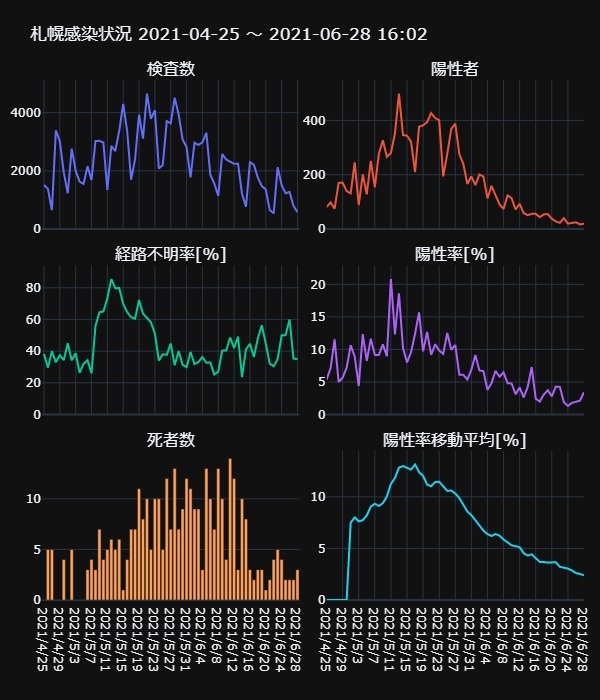
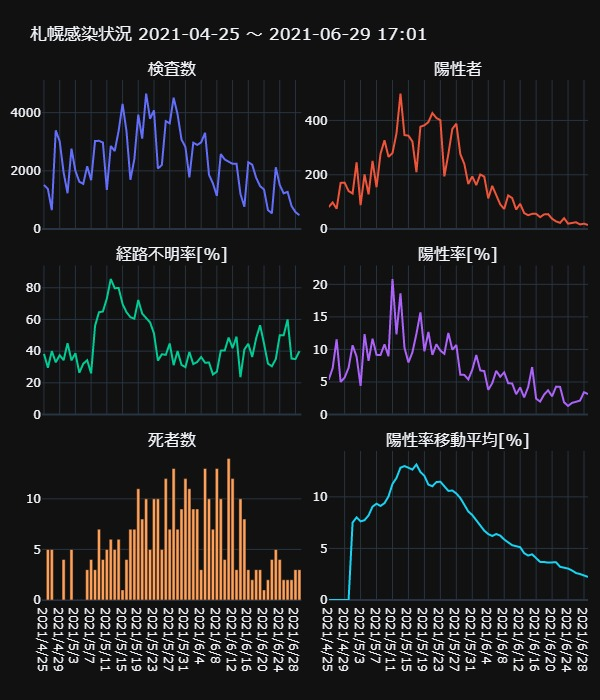
Updated with latest data.

diff --git a/docs/_includes/sapporo.html b/docs/_includes/sapporo.html
@@ -1,1 +1,1 @@
-<div>                            <div id="e60d2261-aacb-4499-9988-d8042fc4458e" class="plotly-graph-div" style="height:700px; width:600px;"></div>            <script type="text/javascript">                                    window.PLOTLYENV=window.PLOTLYENV || {};                                    if (document.getElementById("e60d2261-aacb-4499-9988-d8042fc4458e")) {                    Plotly.newPlot(                        "e60d2261-aacb-4499-9988-d8042fc4458e",                        [{"name": "\u691c\u67fb\u6570", "type": "scatter", "x": ["2021/4/25", "2021/4/26", "2021/4/27", "2021/4/28", "2021/4/29", "2021/4/30", "2021/5/1", "2021/5/2", "2021/5/3", "2021/5/4", "2021/5/5", "2021/5/6", "2021/5/7", "2021/5/8", "2021/5/9", "2021/5/10", "2021/5/11", "2021/5/12", "2021/5/13", "2021/5/14", "2021/5/15", "2021/5/16", "2021/5/17", "2021/5/18", "2021/5/19", "2021/5/20", "2021/5/21", "2021/5/22", "2021/5/23", "2021/5/24", "2021/5/25", "2021/5/26", "2021/5/27", "2021/5/28", "2021/5/29", "2021/5/30", "2021/5/31", "2021/6/1", "2021/6/2", "2021/6/3", "2021/6/4", "2021/6/5", "2021/6/6", "2021/6/7", "2021/6/8", "2021/6/9", "2021/6/10", "2021/6/11", "2021/6/12", "2021/6/13", "2021/6/14", "2021/6/15", "2021/6/16", "2021/6/17", "2021/6/18", "2021/6/19", "2021/6/20", "2021/6/21", "2021/6/22", "2021/6/23", "2021/6/24", "2021/6/25", "2021/6/26", "2021/6/27", "2021/6/28"], "xaxis": "x", "y": [1517, 1377, 649, 3391, 3018, 1946, 1231, 2764, 2001, 1626, 1553, 2157, 1680, 3028, 3031, 2972, 1345, 2856, 2680, 3372, 4302, 3365, 1694, 2402, 3933, 3105, 4656, 3789, 4080, 2080, 2201, 3708, 3632, 4511, 3943, 3079, 2818, 1773, 2967, 2891, 2978, 3307, 1863, 1567, 1142, 2577, 2391, 2307, 2240, 2244, 1208, 768, 2295, 2212, 1763, 1476, 1360, 653, 542, 2124, 1513, 1229, 1278, 793, 583], "yaxis": "y"}, {"name": "\u967d\u6027\u8005", "type": "scatter", "x": ["2021/4/25", "2021/4/26", "2021/4/27", "2021/4/28", "2021/4/29", "2021/4/30", "2021/5/1", "2021/5/2", "2021/5/3", "2021/5/4", "2021/5/5", "2021/5/6", "2021/5/7", "2021/5/8", "2021/5/9", "2021/5/10", "2021/5/11", "2021/5/12", "2021/5/13", "2021/5/14", "2021/5/15", "2021/5/16", "2021/5/17", "2021/5/18", "2021/5/19", "2021/5/20", "2021/5/21", "2021/5/22", "2021/5/23", "2021/5/24", "2021/5/25", "2021/5/26", "2021/5/27", "2021/5/28", "2021/5/29", "2021/5/30", "2021/5/31", "2021/6/1", "2021/6/2", "2021/6/3", "2021/6/4", "2021/6/5", "2021/6/6", "2021/6/7", "2021/6/8", "2021/6/9", "2021/6/10", "2021/6/11", "2021/6/12", "2021/6/13", "2021/6/14", "2021/6/15", "2021/6/16", "2021/6/17", "2021/6/18", "2021/6/19", "2021/6/20", "2021/6/21", "2021/6/22", "2021/6/23", "2021/6/24", "2021/6/25", "2021/6/26", "2021/6/27", "2021/6/28"], "xaxis": "x2", "y": [81, 98, 75, 170, 171, 140, 131, 246, 88, 201, 128, 251, 154, 277, 327, 266, 280, 352, 499, 346, 344, 322, 210, 377, 382, 394, 427, 409, 401, 194, 276, 369, 388, 276, 240, 166, 194, 162, 201, 193, 113, 159, 125, 91, 74, 124, 114, 72, 93, 59, 51, 56, 56, 44, 54, 55, 38, 28, 23, 40, 20, 22, 25, 17, 20], "yaxis": "y2"}, {"name": "\u7d4c\u8def\u4e0d\u660e\u7387[%]", "type": "scatter", "x": ["2021/4/25", "2021/4/26", "2021/4/27", "2021/4/28", "2021/4/29", "2021/4/30", "2021/5/1", "2021/5/2", "2021/5/3", "2021/5/4", "2021/5/5", "2021/5/6", "2021/5/7", "2021/5/8", "2021/5/9", "2021/5/10", "2021/5/11", "2021/5/12", "2021/5/13", "2021/5/14", "2021/5/15", "2021/5/16", "2021/5/17", "2021/5/18", "2021/5/19", "2021/5/20", "2021/5/21", "2021/5/22", "2021/5/23", "2021/5/24", "2021/5/25", "2021/5/26", "2021/5/27", "2021/5/28", "2021/5/29", "2021/5/30", "2021/5/31", "2021/6/1", "2021/6/2", "2021/6/3", "2021/6/4", "2021/6/5", "2021/6/6", "2021/6/7", "2021/6/8", "2021/6/9", "2021/6/10", "2021/6/11", "2021/6/12", "2021/6/13", "2021/6/14", "2021/6/15", "2021/6/16", "2021/6/17", "2021/6/18", "2021/6/19", "2021/6/20", "2021/6/21", "2021/6/22", "2021/6/23", "2021/6/24", "2021/6/25", "2021/6/26", "2021/6/27", "2021/6/28"], "xaxis": "x3", "y": [38.2716049382716, 29.591836734693878, 40.0, 32.94117647058823, 37.42690058479532, 34.285714285714285, 45.038167938931295, 34.146341463414636, 38.63636363636363, 26.368159203980102, 32.03125, 34.26294820717131, 25.97402597402597, 55.95667870036101, 64.52599388379205, 65.0375939849624, 73.21428571428571, 85.51136363636364, 79.75951903807615, 79.76878612716763, 69.76744186046511, 64.59627329192547, 61.42857142857143, 60.47745358090185, 72.25130890052355, 63.70558375634518, 60.88992974238876, 58.19070904645477, 51.12219451371571, 34.02061855670103, 38.04347826086957, 37.669376693766935, 44.84536082474227, 31.15942028985507, 40.0, 31.32530120481928, 29.896907216494846, 39.50617283950617, 31.8407960199005, 33.160621761658035, 36.283185840707965, 32.70440251572327, 32.800000000000004, 25.274725274725274, 27.027027027027028, 40.32258064516129, 40.35087719298245, 48.61111111111111, 41.935483870967744, 49.152542372881356, 23.52941176470588, 41.07142857142857, 44.642857142857146, 36.36363636363637, 48.148148148148145, 56.36363636363636, 44.73684210526316, 32.142857142857146, 30.434782608695656, 35.0, 50.0, 50.0, 60.0, 35.294117647058826, 35.0], "yaxis": "y3"}, {"name": "\u967d\u6027\u7387[%]", "type": "scatter", "x": ["2021/4/25", "2021/4/26", "2021/4/27", "2021/4/28", "2021/4/29", "2021/4/30", "2021/5/1", "2021/5/2", "2021/5/3", "2021/5/4", "2021/5/5", "2021/5/6", "2021/5/7", "2021/5/8", "2021/5/9", "2021/5/10", "2021/5/11", "2021/5/12", "2021/5/13", "2021/5/14", "2021/5/15", "2021/5/16", "2021/5/17", "2021/5/18", "2021/5/19", "2021/5/20", "2021/5/21", "2021/5/22", "2021/5/23", "2021/5/24", "2021/5/25", "2021/5/26", "2021/5/27", "2021/5/28", "2021/5/29", "2021/5/30", "2021/5/31", "2021/6/1", "2021/6/2", "2021/6/3", "2021/6/4", "2021/6/5", "2021/6/6", "2021/6/7", "2021/6/8", "2021/6/9", "2021/6/10", "2021/6/11", "2021/6/12", "2021/6/13", "2021/6/14", "2021/6/15", "2021/6/16", "2021/6/17", "2021/6/18", "2021/6/19", "2021/6/20", "2021/6/21", "2021/6/22", "2021/6/23", "2021/6/24", "2021/6/25", "2021/6/26", "2021/6/27", "2021/6/28"], "xaxis": "x4", "y": [5.339485827290705, 7.116920842411038, 11.556240369799692, 5.013270421704512, 5.666003976143141, 7.194244604316546, 10.641754670999187, 8.90014471780029, 4.397801099450275, 12.361623616236162, 8.24211204121056, 11.636532220676866, 9.166666666666666, 9.147952443857331, 10.788518640712635, 8.950201884253028, 20.817843866171003, 12.324929971988796, 18.619402985074625, 10.26097271648873, 7.996280799628081, 9.569093610698365, 12.396694214876034, 15.695253955037469, 9.712687515891178, 12.689210950080515, 9.170962199312713, 10.794404856162576, 9.82843137254902, 9.326923076923077, 12.539754656974104, 9.951456310679612, 10.682819383259911, 6.1183772999334956, 6.086735987826528, 5.391360831438779, 6.88431511710433, 9.137055837563452, 6.774519716885743, 6.675890695261155, 3.794492948287441, 4.807983066223163, 6.709608158883522, 5.8072750478621575, 6.47985989492119, 4.811796662786186, 4.767879548306149, 3.1209362808842656, 4.151785714285714, 2.6292335115864525, 4.2218543046357615, 7.291666666666667, 2.440087145969499, 1.9891500904159132, 3.0629608621667614, 3.7262872628726287, 2.794117647058824, 4.287901990811639, 4.243542435424354, 1.8832391713747645, 1.3218770654329148, 1.790073230268511, 1.9561815336463224, 2.1437578814627996, 3.430531732418525], "yaxis": "y4"}, {"name": "\u6b7b\u8005\u6570", "type": "bar", "x": ["2021/4/25", "2021/4/26", "2021/4/27", "2021/4/28", "2021/4/29", "2021/4/30", "2021/5/1", "2021/5/2", "2021/5/3", "2021/5/4", "2021/5/5", "2021/5/6", "2021/5/7", "2021/5/8", "2021/5/9", "2021/5/10", "2021/5/11", "2021/5/12", "2021/5/13", "2021/5/14", "2021/5/15", "2021/5/16", "2021/5/17", "2021/5/18", "2021/5/19", "2021/5/20", "2021/5/21", "2021/5/22", "2021/5/23", "2021/5/24", "2021/5/25", "2021/5/26", "2021/5/27", "2021/5/28", "2021/5/29", "2021/5/30", "2021/5/31", "2021/6/1", "2021/6/2", "2021/6/3", "2021/6/4", "2021/6/5", "2021/6/6", "2021/6/7", "2021/6/8", "2021/6/9", "2021/6/10", "2021/6/11", "2021/6/12", "2021/6/13", "2021/6/14", "2021/6/15", "2021/6/16", "2021/6/17", "2021/6/18", "2021/6/19", "2021/6/20", "2021/6/21", "2021/6/22", "2021/6/23", "2021/6/24", "2021/6/25", "2021/6/26", "2021/6/27", "2021/6/28"], "xaxis": "x5", "y": [0, 5, 5, 0, 0, 4, 0, 5, 0, 0, 0, 3, 4, 3, 7, 4, 5, 6, 5, 6, 1, 4, 7, 7, 11, 8, 10, 5, 10, 10, 5, 12, 7, 13, 7, 9, 12, 11, 9, 9, 3, 13, 10, 7, 13, 10, 4, 14, 12, 3, 10, 8, 3, 2, 3, 3, 1, 2, 4, 5, 4, 2, 2, 2, 3], "yaxis": "y5"}, {"name": "\u967d\u6027\u7387\u79fb\u52d5\u5e73\u5747[%]", "type": "scatter", "x": ["2021/4/25", "2021/4/26", "2021/4/27", "2021/4/28", "2021/4/29", "2021/4/30", "2021/5/1", "2021/5/2", "2021/5/3", "2021/5/4", "2021/5/5", "2021/5/6", "2021/5/7", "2021/5/8", "2021/5/9", "2021/5/10", "2021/5/11", "2021/5/12", "2021/5/13", "2021/5/14", "2021/5/15", "2021/5/16", "2021/5/17", "2021/5/18", "2021/5/19", "2021/5/20", "2021/5/21", "2021/5/22", "2021/5/23", "2021/5/24", "2021/5/25", "2021/5/26", "2021/5/27", "2021/5/28", "2021/5/29", "2021/5/30", "2021/5/31", "2021/6/1", "2021/6/2", "2021/6/3", "2021/6/4", "2021/6/5", "2021/6/6", "2021/6/7", "2021/6/8", "2021/6/9", "2021/6/10", "2021/6/11", "2021/6/12", "2021/6/13", "2021/6/14", "2021/6/15", "2021/6/16", "2021/6/17", "2021/6/18", "2021/6/19", "2021/6/20", "2021/6/21", "2021/6/22", "2021/6/23", "2021/6/24", "2021/6/25", "2021/6/26", "2021/6/27", "2021/6/28"], "xaxis": "x6", "y": [0.0, 0.0, 0.0, 0.0, 0.0, 0.0, 7.503988673237832, 8.012654229024914, 7.624208551459091, 7.739263300950015, 8.20052638945088, 9.053458995812841, 9.335233576148571, 9.12183325798545, 9.391600961258641, 10.041943930516178, 11.249975394792585, 11.833235099189475, 12.830788065532012, 12.987117501220878, 12.8225929806167, 12.648389404900376, 13.140745452132233, 12.408946893398872, 12.035769399670638, 11.188599108957195, 11.032883320789193, 11.432615328865548, 11.469663580558498, 11.03112484656522, 10.580339232556168, 10.614449060383087, 10.32782169369443, 9.891738136640255, 9.219214012592248, 8.585346792433644, 8.236402798173822, 7.750302966829444, 7.296454882001749, 6.724036498001926, 6.392053019195346, 6.209374030394867, 6.397695077172687, 6.24383221013809, 5.864232789760624, 5.583843782032115, 5.311270761038544, 5.215048379980947, 5.12130590113274, 4.53839523723316, 4.311906559629389, 4.4278789555930285, 4.0890633103335015, 3.6921019592063242, 3.683819756532395, 3.6230342634733828, 3.646589139969436, 3.6560245237088473, 3.220578204959945, 3.141028494303555, 3.045703776448841, 2.863862686177662, 2.6109904391453327, 2.5180819012030433, 2.395600435718313], "yaxis": "y6"}],                        {"annotations": [{"font": {"size": 16}, "showarrow": false, "text": "\u691c\u67fb\u6570", "x": 0.2375, "xanchor": "center", "xref": "paper", "y": 1.0, "yanchor": "bottom", "yref": "paper"}, {"font": {"size": 16}, "showarrow": false, "text": "\u967d\u6027\u8005", "x": 0.7625, "xanchor": "center", "xref": "paper", "y": 1.0, "yanchor": "bottom", "yref": "paper"}, {"font": {"size": 16}, "showarrow": false, "text": "\u7d4c\u8def\u4e0d\u660e\u7387[%]", "x": 0.2375, "xanchor": "center", "xref": "paper", "y": 0.6433333333333333, "yanchor": "bottom", "yref": "paper"}, {"font": {"size": 16}, "showarrow": false, "text": "\u967d\u6027\u7387[%]", "x": 0.7625, "xanchor": "center", "xref": "paper", "y": 0.6433333333333333, "yanchor": "bottom", "yref": "paper"}, {"font": {"size": 16}, "showarrow": false, "text": "\u6b7b\u8005\u6570", "x": 0.2375, "xanchor": "center", "xref": "paper", "y": 0.2866666666666667, "yanchor": "bottom", "yref": "paper"}, {"font": {"size": 16}, "showarrow": false, "text": "\u967d\u6027\u7387\u79fb\u52d5\u5e73\u5747[%]", "x": 0.7625, "xanchor": "center", "xref": "paper", "y": 0.2866666666666667, "yanchor": "bottom", "yref": "paper"}], "height": 700, "margin": {"b": 100, "l": 10, "r": 10, "t": 80}, "showlegend": false, "template": {"data": {"bar": [{"error_x": {"color": "#f2f5fa"}, "error_y": {"color": "#f2f5fa"}, "marker": {"line": {"color": "rgb(17,17,17)", "width": 0.5}}, "type": "bar"}], "barpolar": [{"marker": {"line": {"color": "rgb(17,17,17)", "width": 0.5}}, "type": "barpolar"}], "carpet": [{"aaxis": {"endlinecolor": "#A2B1C6", "gridcolor": "#506784", "linecolor": "#506784", "minorgridcolor": "#506784", "startlinecolor": "#A2B1C6"}, "baxis": {"endlinecolor": "#A2B1C6", "gridcolor": "#506784", "linecolor": "#506784", "minorgridcolor": "#506784", "startlinecolor": "#A2B1C6"}, "type": "carpet"}], "choropleth": [{"colorbar": {"outlinewidth": 0, "ticks": ""}, "type": "choropleth"}], "contour": [{"colorbar": {"outlinewidth": 0, "ticks": ""}, "colorscale": [[0.0, "#0d0887"], [0.1111111111111111, "#46039f"], [0.2222222222222222, "#7201a8"], [0.3333333333333333, "#9c179e"], [0.4444444444444444, "#bd3786"], [0.5555555555555556, "#d8576b"], [0.6666666666666666, "#ed7953"], [0.7777777777777778, "#fb9f3a"], [0.8888888888888888, "#fdca26"], [1.0, "#f0f921"]], "type": "contour"}], "contourcarpet": [{"colorbar": {"outlinewidth": 0, "ticks": ""}, "type": "contourcarpet"}], "heatmap": [{"colorbar": {"outlinewidth": 0, "ticks": ""}, "colorscale": [[0.0, "#0d0887"], [0.1111111111111111, "#46039f"], [0.2222222222222222, "#7201a8"], [0.3333333333333333, "#9c179e"], [0.4444444444444444, "#bd3786"], [0.5555555555555556, "#d8576b"], [0.6666666666666666, "#ed7953"], [0.7777777777777778, "#fb9f3a"], [0.8888888888888888, "#fdca26"], [1.0, "#f0f921"]], "type": "heatmap"}], "heatmapgl": [{"colorbar": {"outlinewidth": 0, "ticks": ""}, "colorscale": [[0.0, "#0d0887"], [0.1111111111111111, "#46039f"], [0.2222222222222222, "#7201a8"], [0.3333333333333333, "#9c179e"], [0.4444444444444444, "#bd3786"], [0.5555555555555556, "#d8576b"], [0.6666666666666666, "#ed7953"], [0.7777777777777778, "#fb9f3a"], [0.8888888888888888, "#fdca26"], [1.0, "#f0f921"]], "type": "heatmapgl"}], "histogram": [{"marker": {"colorbar": {"outlinewidth": 0, "ticks": ""}}, "type": "histogram"}], "histogram2d": [{"colorbar": {"outlinewidth": 0, "ticks": ""}, "colorscale": [[0.0, "#0d0887"], [0.1111111111111111, "#46039f"], [0.2222222222222222, "#7201a8"], [0.3333333333333333, "#9c179e"], [0.4444444444444444, "#bd3786"], [0.5555555555555556, "#d8576b"], [0.6666666666666666, "#ed7953"], [0.7777777777777778, "#fb9f3a"], [0.8888888888888888, "#fdca26"], [1.0, "#f0f921"]], "type": "histogram2d"}], "histogram2dcontour": [{"colorbar": {"outlinewidth": 0, "ticks": ""}, "colorscale": [[0.0, "#0d0887"], [0.1111111111111111, "#46039f"], [0.2222222222222222, "#7201a8"], [0.3333333333333333, "#9c179e"], [0.4444444444444444, "#bd3786"], [0.5555555555555556, "#d8576b"], [0.6666666666666666, "#ed7953"], [0.7777777777777778, "#fb9f3a"], [0.8888888888888888, "#fdca26"], [1.0, "#f0f921"]], "type": "histogram2dcontour"}], "mesh3d": [{"colorbar": {"outlinewidth": 0, "ticks": ""}, "type": "mesh3d"}], "parcoords": [{"line": {"colorbar": {"outlinewidth": 0, "ticks": ""}}, "type": "parcoords"}], "pie": [{"automargin": true, "type": "pie"}], "scatter": [{"marker": {"line": {"color": "#283442"}}, "type": "scatter"}], "scatter3d": [{"line": {"colorbar": {"outlinewidth": 0, "ticks": ""}}, "marker": {"colorbar": {"outlinewidth": 0, "ticks": ""}}, "type": "scatter3d"}], "scattercarpet": [{"marker": {"colorbar": {"outlinewidth": 0, "ticks": ""}}, "type": "scattercarpet"}], "scattergeo": [{"marker": {"colorbar": {"outlinewidth": 0, "ticks": ""}}, "type": "scattergeo"}], "scattergl": [{"marker": {"line": {"color": "#283442"}}, "type": "scattergl"}], "scattermapbox": [{"marker": {"colorbar": {"outlinewidth": 0, "ticks": ""}}, "type": "scattermapbox"}], "scatterpolar": [{"marker": {"colorbar": {"outlinewidth": 0, "ticks": ""}}, "type": "scatterpolar"}], "scatterpolargl": [{"marker": {"colorbar": {"outlinewidth": 0, "ticks": ""}}, "type": "scatterpolargl"}], "scatterternary": [{"marker": {"colorbar": {"outlinewidth": 0, "ticks": ""}}, "type": "scatterternary"}], "surface": [{"colorbar": {"outlinewidth": 0, "ticks": ""}, "colorscale": [[0.0, "#0d0887"], [0.1111111111111111, "#46039f"], [0.2222222222222222, "#7201a8"], [0.3333333333333333, "#9c179e"], [0.4444444444444444, "#bd3786"], [0.5555555555555556, "#d8576b"], [0.6666666666666666, "#ed7953"], [0.7777777777777778, "#fb9f3a"], [0.8888888888888888, "#fdca26"], [1.0, "#f0f921"]], "type": "surface"}], "table": [{"cells": {"fill": {"color": "#506784"}, "line": {"color": "rgb(17,17,17)"}}, "header": {"fill": {"color": "#2a3f5f"}, "line": {"color": "rgb(17,17,17)"}}, "type": "table"}]}, "layout": {"annotationdefaults": {"arrowcolor": "#f2f5fa", "arrowhead": 0, "arrowwidth": 1}, "autotypenumbers": "strict", "coloraxis": {"colorbar": {"outlinewidth": 0, "ticks": ""}}, "colorscale": {"diverging": [[0, "#8e0152"], [0.1, "#c51b7d"], [0.2, "#de77ae"], [0.3, "#f1b6da"], [0.4, "#fde0ef"], [0.5, "#f7f7f7"], [0.6, "#e6f5d0"], [0.7, "#b8e186"], [0.8, "#7fbc41"], [0.9, "#4d9221"], [1, "#276419"]], "sequential": [[0.0, "#0d0887"], [0.1111111111111111, "#46039f"], [0.2222222222222222, "#7201a8"], [0.3333333333333333, "#9c179e"], [0.4444444444444444, "#bd3786"], [0.5555555555555556, "#d8576b"], [0.6666666666666666, "#ed7953"], [0.7777777777777778, "#fb9f3a"], [0.8888888888888888, "#fdca26"], [1.0, "#f0f921"]], "sequentialminus": [[0.0, "#0d0887"], [0.1111111111111111, "#46039f"], [0.2222222222222222, "#7201a8"], [0.3333333333333333, "#9c179e"], [0.4444444444444444, "#bd3786"], [0.5555555555555556, "#d8576b"], [0.6666666666666666, "#ed7953"], [0.7777777777777778, "#fb9f3a"], [0.8888888888888888, "#fdca26"], [1.0, "#f0f921"]]}, "colorway": ["#636efa", "#EF553B", "#00cc96", "#ab63fa", "#FFA15A", "#19d3f3", "#FF6692", "#B6E880", "#FF97FF", "#FECB52"], "font": {"color": "#f2f5fa"}, "geo": {"bgcolor": "rgb(17,17,17)", "lakecolor": "rgb(17,17,17)", "landcolor": "rgb(17,17,17)", "showlakes": true, "showland": true, "subunitcolor": "#506784"}, "hoverlabel": {"align": "left"}, "hovermode": "closest", "mapbox": {"style": "dark"}, "paper_bgcolor": "rgb(17,17,17)", "plot_bgcolor": "rgb(17,17,17)", "polar": {"angularaxis": {"gridcolor": "#506784", "linecolor": "#506784", "ticks": ""}, "bgcolor": "rgb(17,17,17)", "radialaxis": {"gridcolor": "#506784", "linecolor": "#506784", "ticks": ""}}, "scene": {"xaxis": {"backgroundcolor": "rgb(17,17,17)", "gridcolor": "#506784", "gridwidth": 2, "linecolor": "#506784", "showbackground": true, "ticks": "", "zerolinecolor": "#C8D4E3"}, "yaxis": {"backgroundcolor": "rgb(17,17,17)", "gridcolor": "#506784", "gridwidth": 2, "linecolor": "#506784", "showbackground": true, "ticks": "", "zerolinecolor": "#C8D4E3"}, "zaxis": {"backgroundcolor": "rgb(17,17,17)", "gridcolor": "#506784", "gridwidth": 2, "linecolor": "#506784", "showbackground": true, "ticks": "", "zerolinecolor": "#C8D4E3"}}, "shapedefaults": {"line": {"color": "#f2f5fa"}}, "sliderdefaults": {"bgcolor": "#C8D4E3", "bordercolor": "rgb(17,17,17)", "borderwidth": 1, "tickwidth": 0}, "ternary": {"aaxis": {"gridcolor": "#506784", "linecolor": "#506784", "ticks": ""}, "baxis": {"gridcolor": "#506784", "linecolor": "#506784", "ticks": ""}, "bgcolor": "rgb(17,17,17)", "caxis": {"gridcolor": "#506784", "linecolor": "#506784", "ticks": ""}}, "title": {"x": 0.05}, "updatemenudefaults": {"bgcolor": "#506784", "borderwidth": 0}, "xaxis": {"automargin": true, "gridcolor": "#283442", "linecolor": "#506784", "ticks": "", "title": {"standoff": 15}, "zerolinecolor": "#283442", "zerolinewidth": 2}, "yaxis": {"automargin": true, "gridcolor": "#283442", "linecolor": "#506784", "ticks": "", "title": {"standoff": 15}, "zerolinecolor": "#283442", "zerolinewidth": 2}}}, "title": {"text": "\u672d\u5e4c\u611f\u67d3\u72b6\u6cc1 2021-04-25 \uff5e 2021-06-28 16:02"}, "width": 600, "xaxis": {"anchor": "y", "domain": [0.0, 0.475], "matches": "x5", "showticklabels": false}, "xaxis2": {"anchor": "y2", "domain": [0.525, 1.0], "matches": "x6", "showticklabels": false}, "xaxis3": {"anchor": "y3", "domain": [0.0, 0.475], "matches": "x5", "showticklabels": false}, "xaxis4": {"anchor": "y4", "domain": [0.525, 1.0], "matches": "x6", "showticklabels": false}, "xaxis5": {"anchor": "y5", "domain": [0.0, 0.475]}, "xaxis6": {"anchor": "y6", "domain": [0.525, 1.0]}, "yaxis": {"anchor": "x", "domain": [0.7133333333333334, 1.0], "range": [0, 5121.6]}, "yaxis2": {"anchor": "x2", "domain": [0.7133333333333334, 1.0], "range": [0, 548.9000000000001]}, "yaxis3": {"anchor": "x3", "domain": [0.3566666666666667, 0.6433333333333333], "range": [0, 94.06250000000001]}, "yaxis4": {"anchor": "x4", "domain": [0.3566666666666667, 0.6433333333333333], "range": [0, 22.899628252788105]}, "yaxis5": {"anchor": "x5", "domain": [0.0, 0.2866666666666667]}, "yaxis6": {"anchor": "x6", "domain": [0.0, 0.2866666666666667], "range": [0, 14.454819997345457]}},                        {"responsive": true}                    )                };                            </script>        </div>
+<div>                            <div id="be6b1cea-7ec3-42af-a7b5-d22c8ffddea8" class="plotly-graph-div" style="height:700px; width:600px;"></div>            <script type="text/javascript">                                    window.PLOTLYENV=window.PLOTLYENV || {};                                    if (document.getElementById("be6b1cea-7ec3-42af-a7b5-d22c8ffddea8")) {                    Plotly.newPlot(                        "be6b1cea-7ec3-42af-a7b5-d22c8ffddea8",                        [{"name": "\u691c\u67fb\u6570", "type": "scatter", "x": ["2021/4/25", "2021/4/26", "2021/4/27", "2021/4/28", "2021/4/29", "2021/4/30", "2021/5/1", "2021/5/2", "2021/5/3", "2021/5/4", "2021/5/5", "2021/5/6", "2021/5/7", "2021/5/8", "2021/5/9", "2021/5/10", "2021/5/11", "2021/5/12", "2021/5/13", "2021/5/14", "2021/5/15", "2021/5/16", "2021/5/17", "2021/5/18", "2021/5/19", "2021/5/20", "2021/5/21", "2021/5/22", "2021/5/23", "2021/5/24", "2021/5/25", "2021/5/26", "2021/5/27", "2021/5/28", "2021/5/29", "2021/5/30", "2021/5/31", "2021/6/1", "2021/6/2", "2021/6/3", "2021/6/4", "2021/6/5", "2021/6/6", "2021/6/7", "2021/6/8", "2021/6/9", "2021/6/10", "2021/6/11", "2021/6/12", "2021/6/13", "2021/6/14", "2021/6/15", "2021/6/16", "2021/6/17", "2021/6/18", "2021/6/19", "2021/6/20", "2021/6/21", "2021/6/22", "2021/6/23", "2021/6/24", "2021/6/25", "2021/6/26", "2021/6/27", "2021/6/28", "2021/6/29"], "xaxis": "x", "y": [1517, 1377, 649, 3391, 3018, 1946, 1231, 2764, 2001, 1626, 1553, 2157, 1680, 3028, 3031, 2972, 1345, 2856, 2680, 3372, 4302, 3365, 1694, 2402, 3933, 3105, 4656, 3789, 4080, 2080, 2201, 3708, 3632, 4511, 3943, 3079, 2818, 1773, 2967, 2891, 2978, 3307, 1863, 1567, 1142, 2577, 2391, 2307, 2240, 2244, 1208, 768, 2295, 2212, 1763, 1476, 1360, 653, 542, 2124, 1513, 1229, 1278, 793, 583, 478], "yaxis": "y"}, {"name": "\u967d\u6027\u8005", "type": "scatter", "x": ["2021/4/25", "2021/4/26", "2021/4/27", "2021/4/28", "2021/4/29", "2021/4/30", "2021/5/1", "2021/5/2", "2021/5/3", "2021/5/4", "2021/5/5", "2021/5/6", "2021/5/7", "2021/5/8", "2021/5/9", "2021/5/10", "2021/5/11", "2021/5/12", "2021/5/13", "2021/5/14", "2021/5/15", "2021/5/16", "2021/5/17", "2021/5/18", "2021/5/19", "2021/5/20", "2021/5/21", "2021/5/22", "2021/5/23", "2021/5/24", "2021/5/25", "2021/5/26", "2021/5/27", "2021/5/28", "2021/5/29", "2021/5/30", "2021/5/31", "2021/6/1", "2021/6/2", "2021/6/3", "2021/6/4", "2021/6/5", "2021/6/6", "2021/6/7", "2021/6/8", "2021/6/9", "2021/6/10", "2021/6/11", "2021/6/12", "2021/6/13", "2021/6/14", "2021/6/15", "2021/6/16", "2021/6/17", "2021/6/18", "2021/6/19", "2021/6/20", "2021/6/21", "2021/6/22", "2021/6/23", "2021/6/24", "2021/6/25", "2021/6/26", "2021/6/27", "2021/6/28", "2021/6/29"], "xaxis": "x2", "y": [81, 98, 75, 170, 171, 140, 131, 246, 88, 201, 128, 251, 154, 277, 327, 266, 280, 352, 499, 346, 344, 322, 210, 377, 382, 394, 427, 409, 401, 194, 276, 369, 388, 276, 240, 166, 194, 162, 201, 193, 113, 159, 125, 91, 74, 124, 114, 72, 93, 59, 51, 56, 56, 44, 54, 55, 38, 28, 23, 40, 20, 22, 25, 17, 20, 15], "yaxis": "y2"}, {"name": "\u7d4c\u8def\u4e0d\u660e\u7387[%]", "type": "scatter", "x": ["2021/4/25", "2021/4/26", "2021/4/27", "2021/4/28", "2021/4/29", "2021/4/30", "2021/5/1", "2021/5/2", "2021/5/3", "2021/5/4", "2021/5/5", "2021/5/6", "2021/5/7", "2021/5/8", "2021/5/9", "2021/5/10", "2021/5/11", "2021/5/12", "2021/5/13", "2021/5/14", "2021/5/15", "2021/5/16", "2021/5/17", "2021/5/18", "2021/5/19", "2021/5/20", "2021/5/21", "2021/5/22", "2021/5/23", "2021/5/24", "2021/5/25", "2021/5/26", "2021/5/27", "2021/5/28", "2021/5/29", "2021/5/30", "2021/5/31", "2021/6/1", "2021/6/2", "2021/6/3", "2021/6/4", "2021/6/5", "2021/6/6", "2021/6/7", "2021/6/8", "2021/6/9", "2021/6/10", "2021/6/11", "2021/6/12", "2021/6/13", "2021/6/14", "2021/6/15", "2021/6/16", "2021/6/17", "2021/6/18", "2021/6/19", "2021/6/20", "2021/6/21", "2021/6/22", "2021/6/23", "2021/6/24", "2021/6/25", "2021/6/26", "2021/6/27", "2021/6/28", "2021/6/29"], "xaxis": "x3", "y": [38.2716049382716, 29.591836734693878, 40.0, 32.94117647058823, 37.42690058479532, 34.285714285714285, 45.038167938931295, 34.146341463414636, 38.63636363636363, 26.368159203980102, 32.03125, 34.26294820717131, 25.97402597402597, 55.95667870036101, 64.52599388379205, 65.0375939849624, 73.21428571428571, 85.51136363636364, 79.75951903807615, 79.76878612716763, 69.76744186046511, 64.59627329192547, 61.42857142857143, 60.47745358090185, 72.25130890052355, 63.70558375634518, 60.88992974238876, 58.19070904645477, 51.12219451371571, 34.02061855670103, 38.04347826086957, 37.669376693766935, 44.84536082474227, 31.15942028985507, 40.0, 31.32530120481928, 29.896907216494846, 39.50617283950617, 31.8407960199005, 33.160621761658035, 36.283185840707965, 32.70440251572327, 32.800000000000004, 25.274725274725274, 27.027027027027028, 40.32258064516129, 40.35087719298245, 48.61111111111111, 41.935483870967744, 49.152542372881356, 23.52941176470588, 41.07142857142857, 44.642857142857146, 36.36363636363637, 48.148148148148145, 56.36363636363636, 44.73684210526316, 32.142857142857146, 30.434782608695656, 35.0, 50.0, 50.0, 60.0, 35.294117647058826, 35.0, 40.0], "yaxis": "y3"}, {"name": "\u967d\u6027\u7387[%]", "type": "scatter", "x": ["2021/4/25", "2021/4/26", "2021/4/27", "2021/4/28", "2021/4/29", "2021/4/30", "2021/5/1", "2021/5/2", "2021/5/3", "2021/5/4", "2021/5/5", "2021/5/6", "2021/5/7", "2021/5/8", "2021/5/9", "2021/5/10", "2021/5/11", "2021/5/12", "2021/5/13", "2021/5/14", "2021/5/15", "2021/5/16", "2021/5/17", "2021/5/18", "2021/5/19", "2021/5/20", "2021/5/21", "2021/5/22", "2021/5/23", "2021/5/24", "2021/5/25", "2021/5/26", "2021/5/27", "2021/5/28", "2021/5/29", "2021/5/30", "2021/5/31", "2021/6/1", "2021/6/2", "2021/6/3", "2021/6/4", "2021/6/5", "2021/6/6", "2021/6/7", "2021/6/8", "2021/6/9", "2021/6/10", "2021/6/11", "2021/6/12", "2021/6/13", "2021/6/14", "2021/6/15", "2021/6/16", "2021/6/17", "2021/6/18", "2021/6/19", "2021/6/20", "2021/6/21", "2021/6/22", "2021/6/23", "2021/6/24", "2021/6/25", "2021/6/26", "2021/6/27", "2021/6/28", "2021/6/29"], "xaxis": "x4", "y": [5.339485827290705, 7.116920842411038, 11.556240369799692, 5.013270421704512, 5.666003976143141, 7.194244604316546, 10.641754670999187, 8.90014471780029, 4.397801099450275, 12.361623616236162, 8.24211204121056, 11.636532220676866, 9.166666666666666, 9.147952443857331, 10.788518640712635, 8.950201884253028, 20.817843866171003, 12.324929971988796, 18.619402985074625, 10.26097271648873, 7.996280799628081, 9.569093610698365, 12.396694214876034, 15.695253955037469, 9.712687515891178, 12.689210950080515, 9.170962199312713, 10.794404856162576, 9.82843137254902, 9.326923076923077, 12.539754656974104, 9.951456310679612, 10.682819383259911, 6.1183772999334956, 6.086735987826528, 5.391360831438779, 6.88431511710433, 9.137055837563452, 6.774519716885743, 6.675890695261155, 3.794492948287441, 4.807983066223163, 6.709608158883522, 5.8072750478621575, 6.47985989492119, 4.811796662786186, 4.767879548306149, 3.1209362808842656, 4.151785714285714, 2.6292335115864525, 4.2218543046357615, 7.291666666666667, 2.440087145969499, 1.9891500904159132, 3.0629608621667614, 3.7262872628726287, 2.794117647058824, 4.287901990811639, 4.243542435424354, 1.8832391713747645, 1.3218770654329148, 1.790073230268511, 1.9561815336463224, 2.1437578814627996, 3.430531732418525, 3.1380753138075312], "yaxis": "y4"}, {"name": "\u6b7b\u8005\u6570", "type": "bar", "x": ["2021/4/25", "2021/4/26", "2021/4/27", "2021/4/28", "2021/4/29", "2021/4/30", "2021/5/1", "2021/5/2", "2021/5/3", "2021/5/4", "2021/5/5", "2021/5/6", "2021/5/7", "2021/5/8", "2021/5/9", "2021/5/10", "2021/5/11", "2021/5/12", "2021/5/13", "2021/5/14", "2021/5/15", "2021/5/16", "2021/5/17", "2021/5/18", "2021/5/19", "2021/5/20", "2021/5/21", "2021/5/22", "2021/5/23", "2021/5/24", "2021/5/25", "2021/5/26", "2021/5/27", "2021/5/28", "2021/5/29", "2021/5/30", "2021/5/31", "2021/6/1", "2021/6/2", "2021/6/3", "2021/6/4", "2021/6/5", "2021/6/6", "2021/6/7", "2021/6/8", "2021/6/9", "2021/6/10", "2021/6/11", "2021/6/12", "2021/6/13", "2021/6/14", "2021/6/15", "2021/6/16", "2021/6/17", "2021/6/18", "2021/6/19", "2021/6/20", "2021/6/21", "2021/6/22", "2021/6/23", "2021/6/24", "2021/6/25", "2021/6/26", "2021/6/27", "2021/6/28", "2021/6/29"], "xaxis": "x5", "y": [0, 5, 5, 0, 0, 4, 0, 5, 0, 0, 0, 3, 4, 3, 7, 4, 5, 6, 5, 6, 1, 4, 7, 7, 11, 8, 10, 5, 10, 10, 5, 12, 7, 13, 7, 9, 12, 11, 9, 9, 3, 13, 10, 7, 13, 10, 4, 14, 12, 3, 10, 8, 3, 2, 3, 3, 1, 2, 4, 5, 4, 2, 2, 2, 3, 3], "yaxis": "y5"}, {"name": "\u967d\u6027\u7387\u79fb\u52d5\u5e73\u5747[%]", "type": "scatter", "x": ["2021/4/25", "2021/4/26", "2021/4/27", "2021/4/28", "2021/4/29", "2021/4/30", "2021/5/1", "2021/5/2", "2021/5/3", "2021/5/4", "2021/5/5", "2021/5/6", "2021/5/7", "2021/5/8", "2021/5/9", "2021/5/10", "2021/5/11", "2021/5/12", "2021/5/13", "2021/5/14", "2021/5/15", "2021/5/16", "2021/5/17", "2021/5/18", "2021/5/19", "2021/5/20", "2021/5/21", "2021/5/22", "2021/5/23", "2021/5/24", "2021/5/25", "2021/5/26", "2021/5/27", "2021/5/28", "2021/5/29", "2021/5/30", "2021/5/31", "2021/6/1", "2021/6/2", "2021/6/3", "2021/6/4", "2021/6/5", "2021/6/6", "2021/6/7", "2021/6/8", "2021/6/9", "2021/6/10", "2021/6/11", "2021/6/12", "2021/6/13", "2021/6/14", "2021/6/15", "2021/6/16", "2021/6/17", "2021/6/18", "2021/6/19", "2021/6/20", "2021/6/21", "2021/6/22", "2021/6/23", "2021/6/24", "2021/6/25", "2021/6/26", "2021/6/27", "2021/6/28", "2021/6/29"], "xaxis": "x6", "y": [0.0, 0.0, 0.0, 0.0, 0.0, 0.0, 7.503988673237832, 8.012654229024914, 7.624208551459091, 7.739263300950015, 8.20052638945088, 9.053458995812841, 9.335233576148571, 9.12183325798545, 9.391600961258641, 10.041943930516178, 11.249975394792585, 11.833235099189475, 12.830788065532012, 12.987117501220878, 12.8225929806167, 12.648389404900376, 13.140745452132233, 12.408946893398872, 12.035769399670638, 11.188599108957195, 11.032883320789193, 11.432615328865548, 11.469663580558498, 11.03112484656522, 10.580339232556168, 10.614449060383087, 10.32782169369443, 9.891738136640255, 9.219214012592248, 8.585346792433644, 8.236402798173822, 7.750302966829444, 7.296454882001749, 6.724036498001926, 6.392053019195346, 6.209374030394867, 6.397695077172687, 6.24383221013809, 5.864232789760624, 5.583843782032115, 5.311270761038544, 5.215048379980947, 5.12130590113274, 4.53839523723316, 4.311906559629389, 4.4278789555930285, 4.0890633103335015, 3.6921019592063242, 3.683819756532395, 3.6230342634733828, 3.646589139969436, 3.6560245237088473, 3.220578204959945, 3.141028494303555, 3.045703776448841, 2.863862686177662, 2.6109904391453327, 2.5180819012030433, 2.395600435718313, 2.237676561201624], "yaxis": "y6"}],                        {"annotations": [{"font": {"size": 16}, "showarrow": false, "text": "\u691c\u67fb\u6570", "x": 0.2375, "xanchor": "center", "xref": "paper", "y": 1.0, "yanchor": "bottom", "yref": "paper"}, {"font": {"size": 16}, "showarrow": false, "text": "\u967d\u6027\u8005", "x": 0.7625, "xanchor": "center", "xref": "paper", "y": 1.0, "yanchor": "bottom", "yref": "paper"}, {"font": {"size": 16}, "showarrow": false, "text": "\u7d4c\u8def\u4e0d\u660e\u7387[%]", "x": 0.2375, "xanchor": "center", "xref": "paper", "y": 0.6433333333333333, "yanchor": "bottom", "yref": "paper"}, {"font": {"size": 16}, "showarrow": false, "text": "\u967d\u6027\u7387[%]", "x": 0.7625, "xanchor": "center", "xref": "paper", "y": 0.6433333333333333, "yanchor": "bottom", "yref": "paper"}, {"font": {"size": 16}, "showarrow": false, "text": "\u6b7b\u8005\u6570", "x": 0.2375, "xanchor": "center", "xref": "paper", "y": 0.2866666666666667, "yanchor": "bottom", "yref": "paper"}, {"font": {"size": 16}, "showarrow": false, "text": "\u967d\u6027\u7387\u79fb\u52d5\u5e73\u5747[%]", "x": 0.7625, "xanchor": "center", "xref": "paper", "y": 0.2866666666666667, "yanchor": "bottom", "yref": "paper"}], "height": 700, "margin": {"b": 100, "l": 10, "r": 10, "t": 80}, "showlegend": false, "template": {"data": {"bar": [{"error_x": {"color": "#f2f5fa"}, "error_y": {"color": "#f2f5fa"}, "marker": {"line": {"color": "rgb(17,17,17)", "width": 0.5}}, "type": "bar"}], "barpolar": [{"marker": {"line": {"color": "rgb(17,17,17)", "width": 0.5}}, "type": "barpolar"}], "carpet": [{"aaxis": {"endlinecolor": "#A2B1C6", "gridcolor": "#506784", "linecolor": "#506784", "minorgridcolor": "#506784", "startlinecolor": "#A2B1C6"}, "baxis": {"endlinecolor": "#A2B1C6", "gridcolor": "#506784", "linecolor": "#506784", "minorgridcolor": "#506784", "startlinecolor": "#A2B1C6"}, "type": "carpet"}], "choropleth": [{"colorbar": {"outlinewidth": 0, "ticks": ""}, "type": "choropleth"}], "contour": [{"colorbar": {"outlinewidth": 0, "ticks": ""}, "colorscale": [[0.0, "#0d0887"], [0.1111111111111111, "#46039f"], [0.2222222222222222, "#7201a8"], [0.3333333333333333, "#9c179e"], [0.4444444444444444, "#bd3786"], [0.5555555555555556, "#d8576b"], [0.6666666666666666, "#ed7953"], [0.7777777777777778, "#fb9f3a"], [0.8888888888888888, "#fdca26"], [1.0, "#f0f921"]], "type": "contour"}], "contourcarpet": [{"colorbar": {"outlinewidth": 0, "ticks": ""}, "type": "contourcarpet"}], "heatmap": [{"colorbar": {"outlinewidth": 0, "ticks": ""}, "colorscale": [[0.0, "#0d0887"], [0.1111111111111111, "#46039f"], [0.2222222222222222, "#7201a8"], [0.3333333333333333, "#9c179e"], [0.4444444444444444, "#bd3786"], [0.5555555555555556, "#d8576b"], [0.6666666666666666, "#ed7953"], [0.7777777777777778, "#fb9f3a"], [0.8888888888888888, "#fdca26"], [1.0, "#f0f921"]], "type": "heatmap"}], "heatmapgl": [{"colorbar": {"outlinewidth": 0, "ticks": ""}, "colorscale": [[0.0, "#0d0887"], [0.1111111111111111, "#46039f"], [0.2222222222222222, "#7201a8"], [0.3333333333333333, "#9c179e"], [0.4444444444444444, "#bd3786"], [0.5555555555555556, "#d8576b"], [0.6666666666666666, "#ed7953"], [0.7777777777777778, "#fb9f3a"], [0.8888888888888888, "#fdca26"], [1.0, "#f0f921"]], "type": "heatmapgl"}], "histogram": [{"marker": {"colorbar": {"outlinewidth": 0, "ticks": ""}}, "type": "histogram"}], "histogram2d": [{"colorbar": {"outlinewidth": 0, "ticks": ""}, "colorscale": [[0.0, "#0d0887"], [0.1111111111111111, "#46039f"], [0.2222222222222222, "#7201a8"], [0.3333333333333333, "#9c179e"], [0.4444444444444444, "#bd3786"], [0.5555555555555556, "#d8576b"], [0.6666666666666666, "#ed7953"], [0.7777777777777778, "#fb9f3a"], [0.8888888888888888, "#fdca26"], [1.0, "#f0f921"]], "type": "histogram2d"}], "histogram2dcontour": [{"colorbar": {"outlinewidth": 0, "ticks": ""}, "colorscale": [[0.0, "#0d0887"], [0.1111111111111111, "#46039f"], [0.2222222222222222, "#7201a8"], [0.3333333333333333, "#9c179e"], [0.4444444444444444, "#bd3786"], [0.5555555555555556, "#d8576b"], [0.6666666666666666, "#ed7953"], [0.7777777777777778, "#fb9f3a"], [0.8888888888888888, "#fdca26"], [1.0, "#f0f921"]], "type": "histogram2dcontour"}], "mesh3d": [{"colorbar": {"outlinewidth": 0, "ticks": ""}, "type": "mesh3d"}], "parcoords": [{"line": {"colorbar": {"outlinewidth": 0, "ticks": ""}}, "type": "parcoords"}], "pie": [{"automargin": true, "type": "pie"}], "scatter": [{"marker": {"line": {"color": "#283442"}}, "type": "scatter"}], "scatter3d": [{"line": {"colorbar": {"outlinewidth": 0, "ticks": ""}}, "marker": {"colorbar": {"outlinewidth": 0, "ticks": ""}}, "type": "scatter3d"}], "scattercarpet": [{"marker": {"colorbar": {"outlinewidth": 0, "ticks": ""}}, "type": "scattercarpet"}], "scattergeo": [{"marker": {"colorbar": {"outlinewidth": 0, "ticks": ""}}, "type": "scattergeo"}], "scattergl": [{"marker": {"line": {"color": "#283442"}}, "type": "scattergl"}], "scattermapbox": [{"marker": {"colorbar": {"outlinewidth": 0, "ticks": ""}}, "type": "scattermapbox"}], "scatterpolar": [{"marker": {"colorbar": {"outlinewidth": 0, "ticks": ""}}, "type": "scatterpolar"}], "scatterpolargl": [{"marker": {"colorbar": {"outlinewidth": 0, "ticks": ""}}, "type": "scatterpolargl"}], "scatterternary": [{"marker": {"colorbar": {"outlinewidth": 0, "ticks": ""}}, "type": "scatterternary"}], "surface": [{"colorbar": {"outlinewidth": 0, "ticks": ""}, "colorscale": [[0.0, "#0d0887"], [0.1111111111111111, "#46039f"], [0.2222222222222222, "#7201a8"], [0.3333333333333333, "#9c179e"], [0.4444444444444444, "#bd3786"], [0.5555555555555556, "#d8576b"], [0.6666666666666666, "#ed7953"], [0.7777777777777778, "#fb9f3a"], [0.8888888888888888, "#fdca26"], [1.0, "#f0f921"]], "type": "surface"}], "table": [{"cells": {"fill": {"color": "#506784"}, "line": {"color": "rgb(17,17,17)"}}, "header": {"fill": {"color": "#2a3f5f"}, "line": {"color": "rgb(17,17,17)"}}, "type": "table"}]}, "layout": {"annotationdefaults": {"arrowcolor": "#f2f5fa", "arrowhead": 0, "arrowwidth": 1}, "autotypenumbers": "strict", "coloraxis": {"colorbar": {"outlinewidth": 0, "ticks": ""}}, "colorscale": {"diverging": [[0, "#8e0152"], [0.1, "#c51b7d"], [0.2, "#de77ae"], [0.3, "#f1b6da"], [0.4, "#fde0ef"], [0.5, "#f7f7f7"], [0.6, "#e6f5d0"], [0.7, "#b8e186"], [0.8, "#7fbc41"], [0.9, "#4d9221"], [1, "#276419"]], "sequential": [[0.0, "#0d0887"], [0.1111111111111111, "#46039f"], [0.2222222222222222, "#7201a8"], [0.3333333333333333, "#9c179e"], [0.4444444444444444, "#bd3786"], [0.5555555555555556, "#d8576b"], [0.6666666666666666, "#ed7953"], [0.7777777777777778, "#fb9f3a"], [0.8888888888888888, "#fdca26"], [1.0, "#f0f921"]], "sequentialminus": [[0.0, "#0d0887"], [0.1111111111111111, "#46039f"], [0.2222222222222222, "#7201a8"], [0.3333333333333333, "#9c179e"], [0.4444444444444444, "#bd3786"], [0.5555555555555556, "#d8576b"], [0.6666666666666666, "#ed7953"], [0.7777777777777778, "#fb9f3a"], [0.8888888888888888, "#fdca26"], [1.0, "#f0f921"]]}, "colorway": ["#636efa", "#EF553B", "#00cc96", "#ab63fa", "#FFA15A", "#19d3f3", "#FF6692", "#B6E880", "#FF97FF", "#FECB52"], "font": {"color": "#f2f5fa"}, "geo": {"bgcolor": "rgb(17,17,17)", "lakecolor": "rgb(17,17,17)", "landcolor": "rgb(17,17,17)", "showlakes": true, "showland": true, "subunitcolor": "#506784"}, "hoverlabel": {"align": "left"}, "hovermode": "closest", "mapbox": {"style": "dark"}, "paper_bgcolor": "rgb(17,17,17)", "plot_bgcolor": "rgb(17,17,17)", "polar": {"angularaxis": {"gridcolor": "#506784", "linecolor": "#506784", "ticks": ""}, "bgcolor": "rgb(17,17,17)", "radialaxis": {"gridcolor": "#506784", "linecolor": "#506784", "ticks": ""}}, "scene": {"xaxis": {"backgroundcolor": "rgb(17,17,17)", "gridcolor": "#506784", "gridwidth": 2, "linecolor": "#506784", "showbackground": true, "ticks": "", "zerolinecolor": "#C8D4E3"}, "yaxis": {"backgroundcolor": "rgb(17,17,17)", "gridcolor": "#506784", "gridwidth": 2, "linecolor": "#506784", "showbackground": true, "ticks": "", "zerolinecolor": "#C8D4E3"}, "zaxis": {"backgroundcolor": "rgb(17,17,17)", "gridcolor": "#506784", "gridwidth": 2, "linecolor": "#506784", "showbackground": true, "ticks": "", "zerolinecolor": "#C8D4E3"}}, "shapedefaults": {"line": {"color": "#f2f5fa"}}, "sliderdefaults": {"bgcolor": "#C8D4E3", "bordercolor": "rgb(17,17,17)", "borderwidth": 1, "tickwidth": 0}, "ternary": {"aaxis": {"gridcolor": "#506784", "linecolor": "#506784", "ticks": ""}, "baxis": {"gridcolor": "#506784", "linecolor": "#506784", "ticks": ""}, "bgcolor": "rgb(17,17,17)", "caxis": {"gridcolor": "#506784", "linecolor": "#506784", "ticks": ""}}, "title": {"x": 0.05}, "updatemenudefaults": {"bgcolor": "#506784", "borderwidth": 0}, "xaxis": {"automargin": true, "gridcolor": "#283442", "linecolor": "#506784", "ticks": "", "title": {"standoff": 15}, "zerolinecolor": "#283442", "zerolinewidth": 2}, "yaxis": {"automargin": true, "gridcolor": "#283442", "linecolor": "#506784", "ticks": "", "title": {"standoff": 15}, "zerolinecolor": "#283442", "zerolinewidth": 2}}}, "title": {"text": "\u672d\u5e4c\u611f\u67d3\u72b6\u6cc1 2021-04-25 \uff5e 2021-06-29 17:01"}, "width": 600, "xaxis": {"anchor": "y", "domain": [0.0, 0.475], "matches": "x5", "showticklabels": false}, "xaxis2": {"anchor": "y2", "domain": [0.525, 1.0], "matches": "x6", "showticklabels": false}, "xaxis3": {"anchor": "y3", "domain": [0.0, 0.475], "matches": "x5", "showticklabels": false}, "xaxis4": {"anchor": "y4", "domain": [0.525, 1.0], "matches": "x6", "showticklabels": false}, "xaxis5": {"anchor": "y5", "domain": [0.0, 0.475]}, "xaxis6": {"anchor": "y6", "domain": [0.525, 1.0]}, "yaxis": {"anchor": "x", "domain": [0.7133333333333334, 1.0], "range": [0, 5121.6]}, "yaxis2": {"anchor": "x2", "domain": [0.7133333333333334, 1.0], "range": [0, 548.9000000000001]}, "yaxis3": {"anchor": "x3", "domain": [0.3566666666666667, 0.6433333333333333], "range": [0, 94.06250000000001]}, "yaxis4": {"anchor": "x4", "domain": [0.3566666666666667, 0.6433333333333333], "range": [0, 22.899628252788105]}, "yaxis5": {"anchor": "x5", "domain": [0.0, 0.2866666666666667]}, "yaxis6": {"anchor": "x6", "domain": [0.0, 0.2866666666666667], "range": [0, 14.454819997345457]}},                        {"responsive": true}                    )                };                            </script>        </div>
